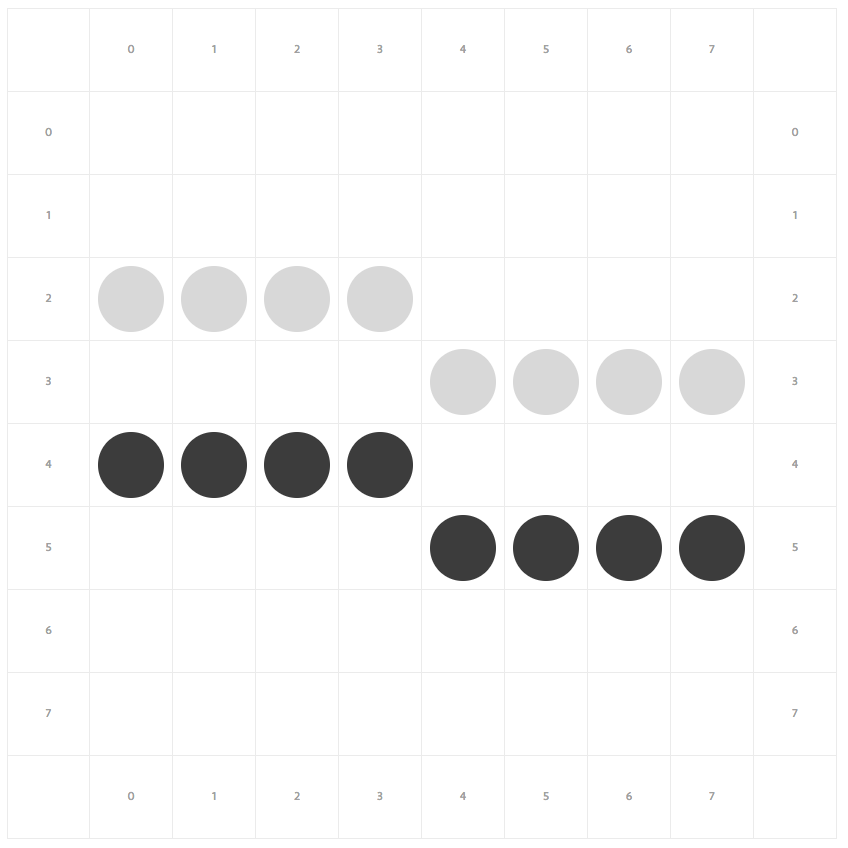
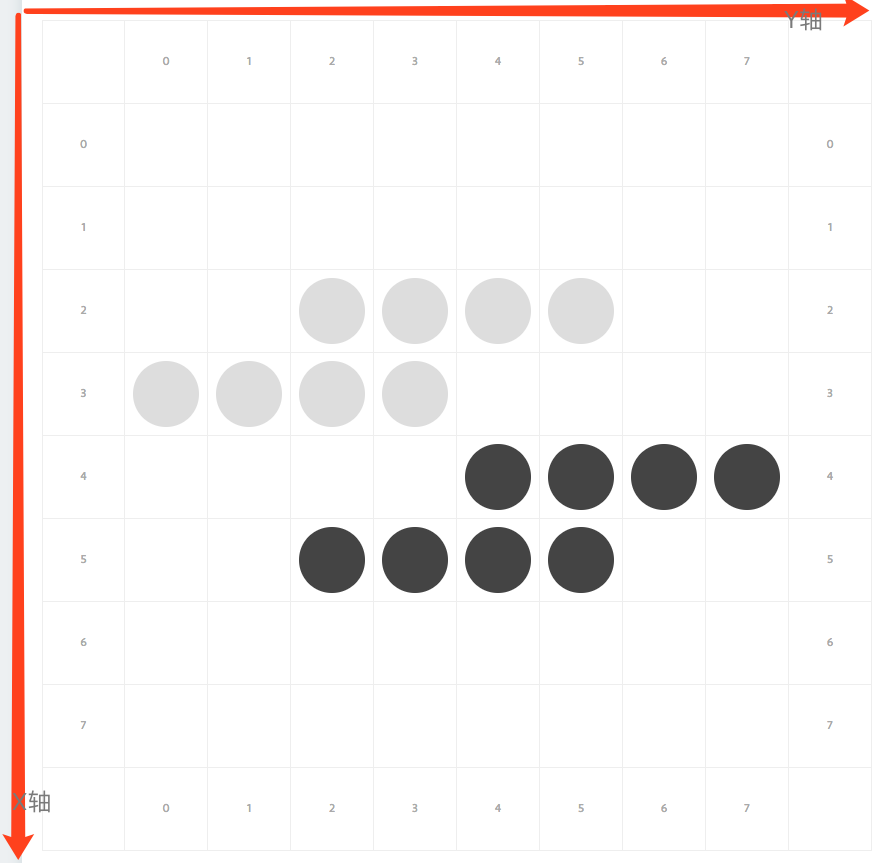
Modify stones distribution on board

diff --git a/project-description/ProjectDescription.md b/project-description/ProjectDescription.md
@@ -232,13 +232,25 @@ DEBUG Hello World!
 
 ### 2. 图2 移动方向
 
+> 坐标(2, 3)的白子可以移动如图所示的6个方向。
+
 <img src="board_move_ruls.png" width="400">
 
 ### 3. 图3 吃子规则
 
+> 挑吃：编号1黑子移动到(2, 1)位置，可以吃掉编号2和编号3白子，替换为两个对应位置的黑子。
+>
+> 夹吃：编号5黑子移 到(3, 2)位置，可以吃掉编号4白子，替换为一个对应位置的黑子。
+
 <img src="mak_yek_divide.png" width="400">
 
 ### 4. 图4 移动一步同时满足横纵的吃子规则
+
+> 编号为4的黑子移动到(3, 6)位置，
+>
+> 	可以在X轴方向以“夹吃”的规则吃掉白子3。
+>
+> 	可以在Y轴方向以“挑吃”的规则吃掉白子1和2。
 
 <img src="mak_yek_both.png" width="400">
 
